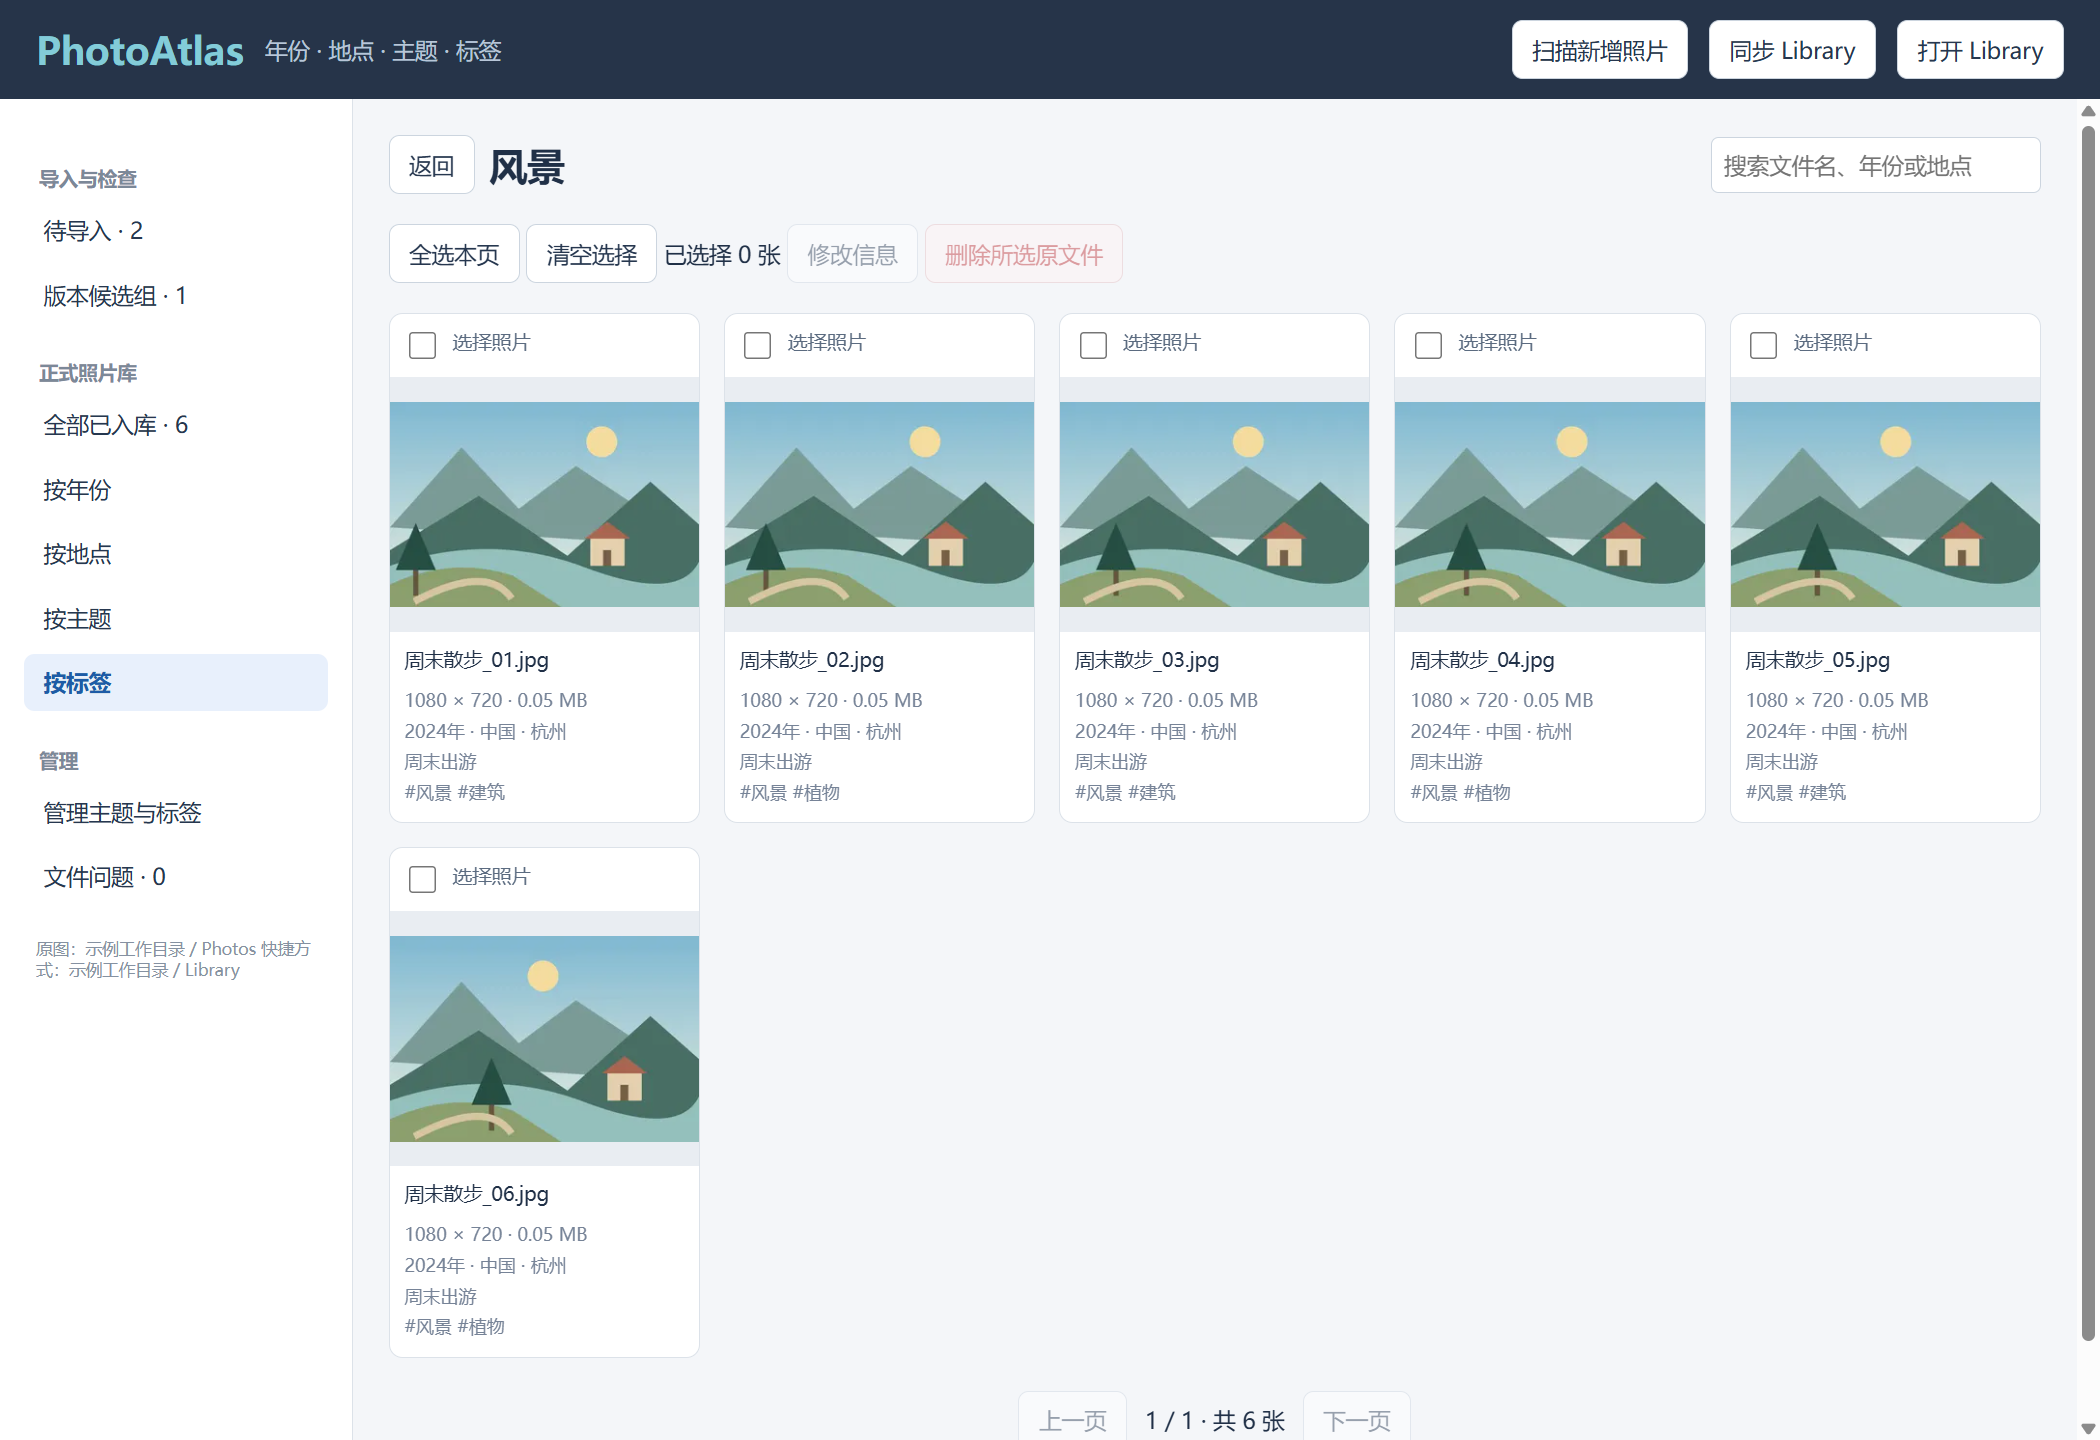
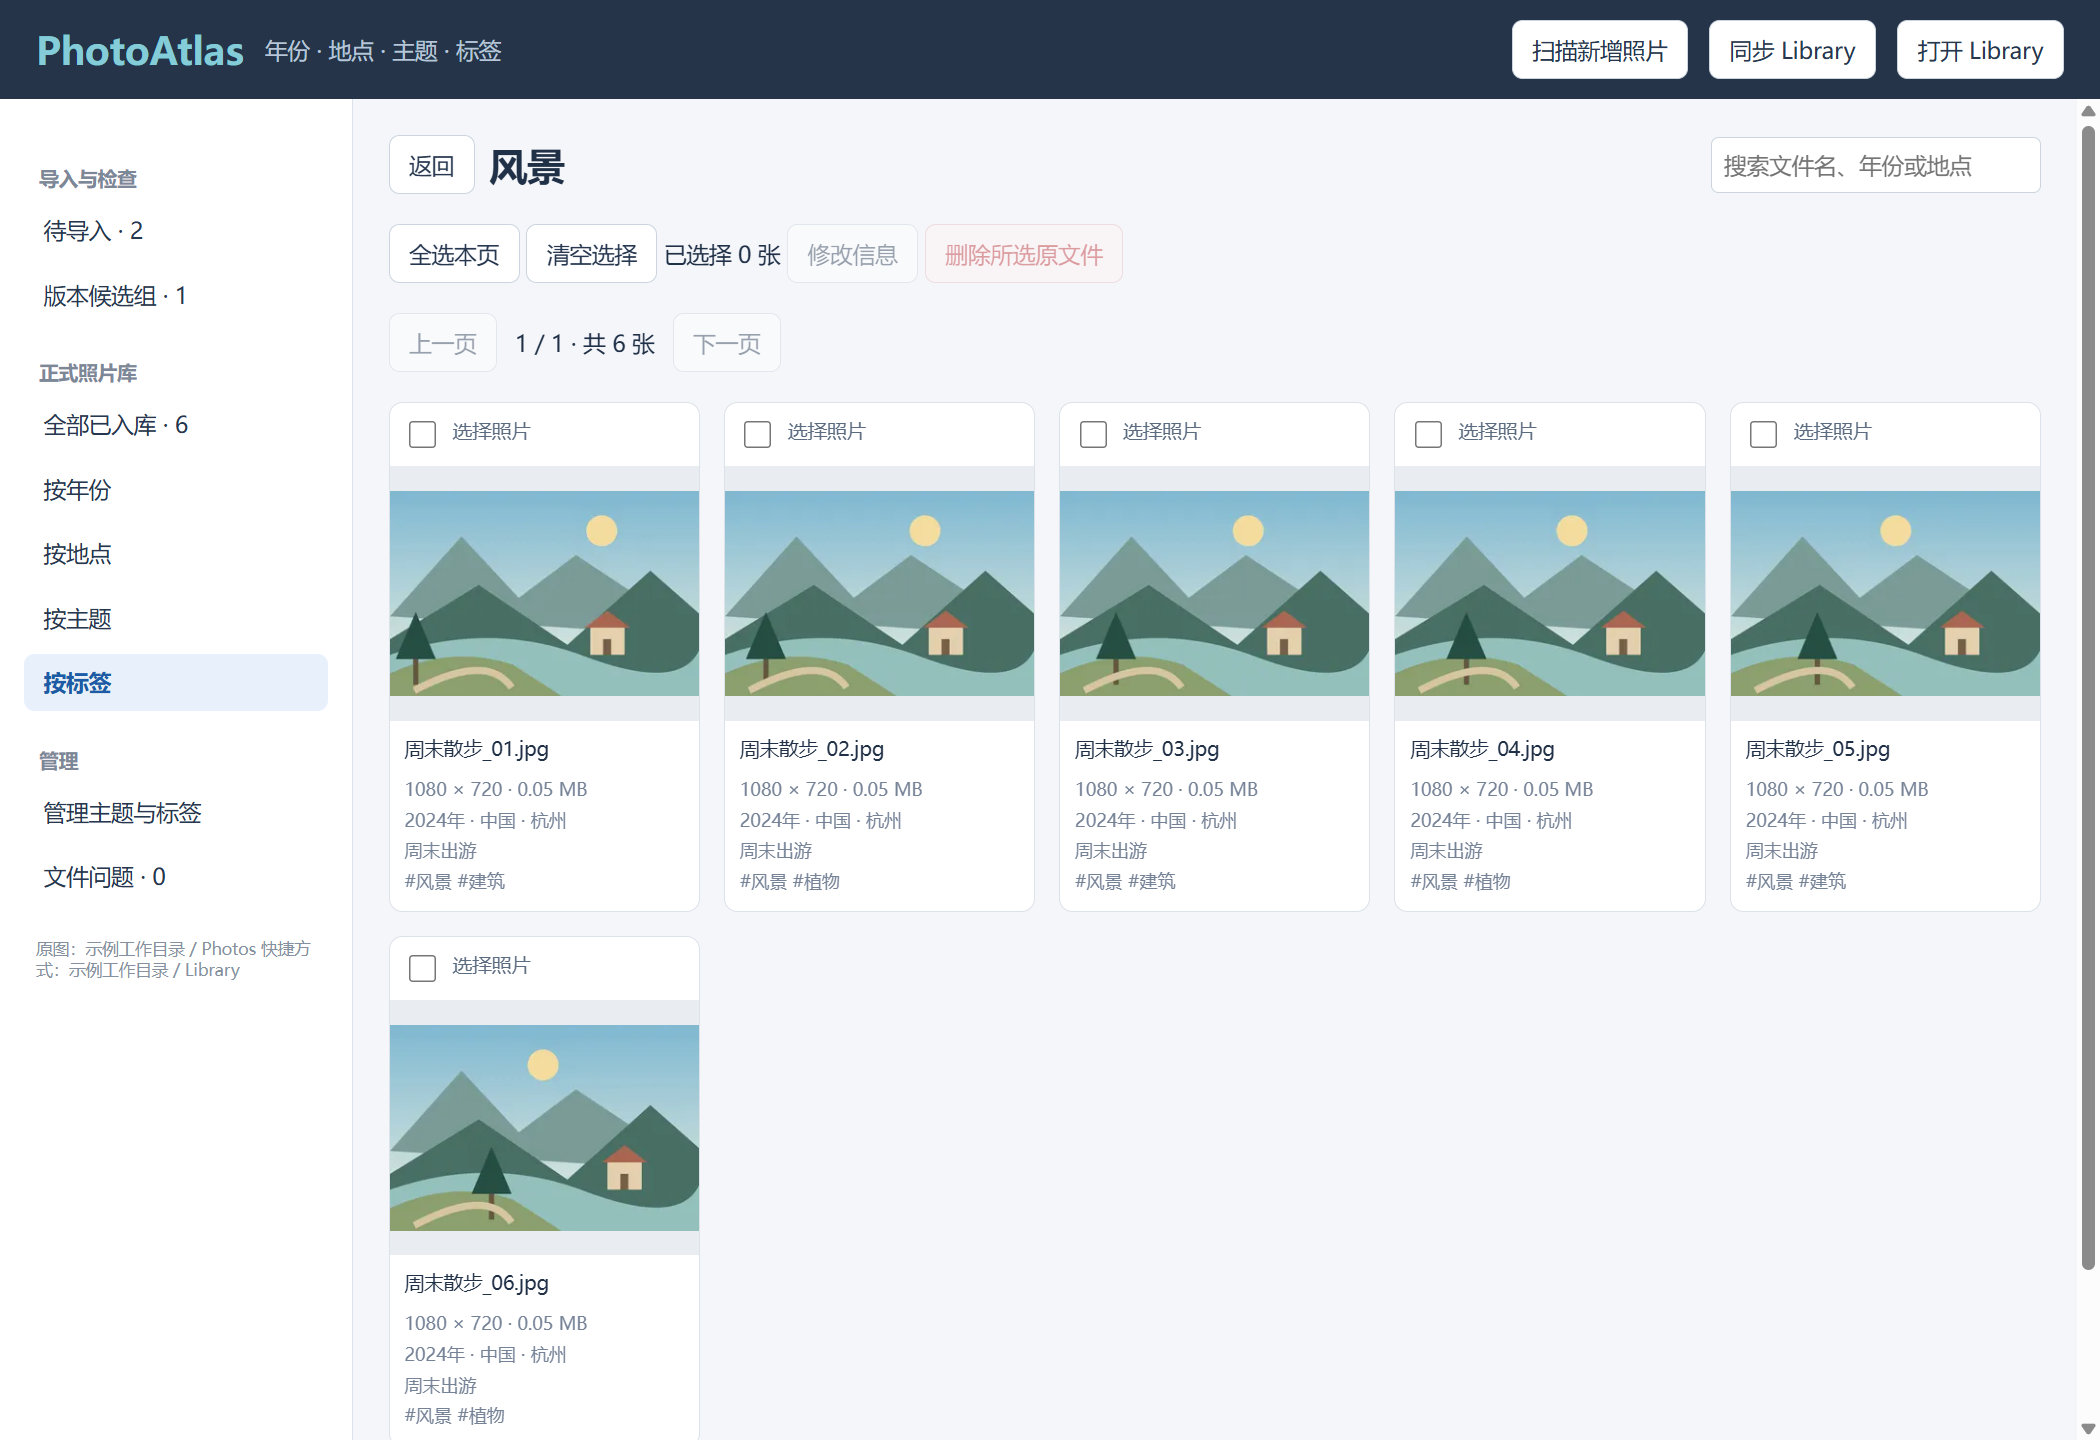
feat: add top pagination to all photo lists

diff --git a/desktop/renderer.js b/desktop/renderer.js
@@ -288,7 +288,7 @@ function renderContent() {
     (id) => !shown.some((p) => p.id === id),
   ).length;
   prefix += `<div class="selection"><button id="select-page">全选本页</button> <button id="clear-selection">清空选择</button> <span>已选择 ${selected.size} 张${view === 'pending' && offPage ? `（其他页 ${offPage} 张）` : ''}</span> <button id="edit-selected" ${!selected.size || busy || view === 'pending' || view === 'groups' ? 'disabled' : ''}>修改信息</button> <button id="delete-selected" class="danger" ${!selected.size || busy ? 'disabled' : ''}>删除所选原文件</button> ${view === 'pending' ? `<button id="confirm-selected" ${!selected.size || busy ? 'disabled' : ''}>确认所选照片入库（${selected.size} 张）</button>` : ''}</div><br>`;
-  if (view === 'pending') prefix += '<div id="pagination-top"></div>';
+  prefix += '<div id="pagination-top"></div>';
   const tags = definitions('tags'),
     themes = definitions('themes');
   $('content').innerHTML =

diff --git a/README.md b/README.md
@@ -71,7 +71,9 @@ npm start
 4. 没有待处理候选的照片仍需人工确认：可以浏览后选择照片入库，或点击“确认已检查且无待处理候选的照片”。分析本身不会自动入库或删除文件。
 5. 入库后在年份、地点、主题、标签界面单独或批量修改信息。修改和入库会同步相应快捷方式，也可以手动点击“同步 Library”。
 
-“待导入”在页面上方和底部均提供“上一页 / 下一页”，页码同步显示。支持跨页选择：翻页保留已选照片，返回原页仍显示选中状态；选择栏提示其他页的选中数量，点击“确认所选照片入库”统一处理。切换浏览维度或点击“清空选择”会清除选择，成功入库后也会清空。分页仍只加载当前页缩略图。
+所有照片缩略图列表在页面上方和底部均提供“上一页 / 下一页”，页码同步显示。分页只加载当前页缩略图。
+
+“待导入”支持跨页选择：翻页保留已选照片，返回原页仍显示选中状态；选择栏提示其他页的选中数量，点击“确认所选照片入库”统一处理。切换浏览维度或点击“清空选择”会清除选择，成功入库后也会清空。
 
 照片可以入库后再补充缺失的年份或城市，不必一次完成所有信息的填写。
 

diff --git a/CHANGELOG.md b/CHANGELOG.md
@@ -1,5 +1,9 @@
 # 更新记录
 
+## 未发布
+
+- 所有照片缩略图列表增加顶部分页按钮，与底部的页码和翻页状态同步。
+
 ## 2.0.0
 
 - 重新实现 Windows 本地照片库，提供待导入、疑似重复版本检查和人工确认入库流程。
